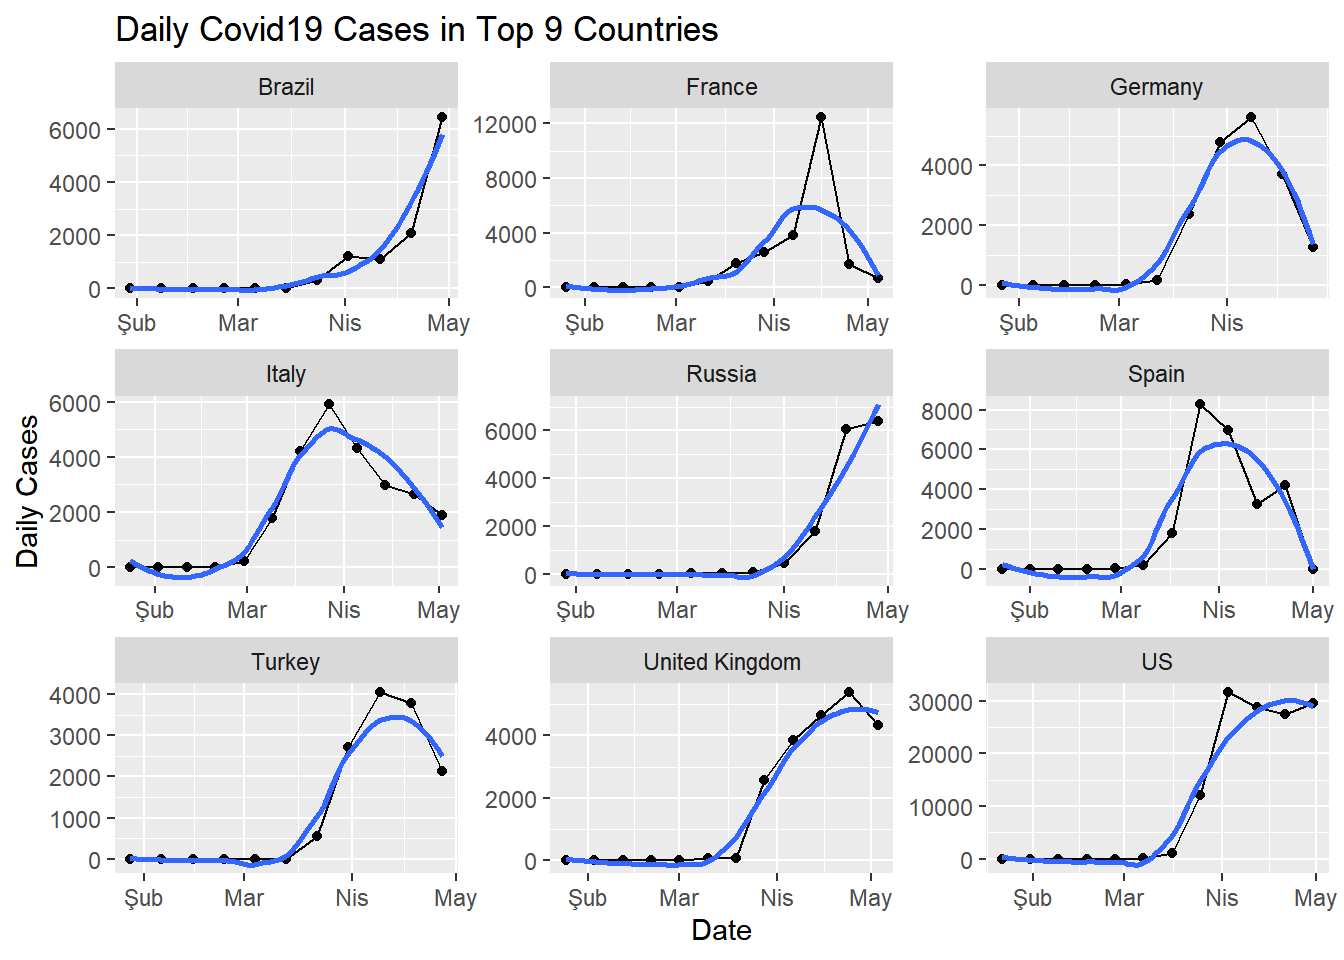
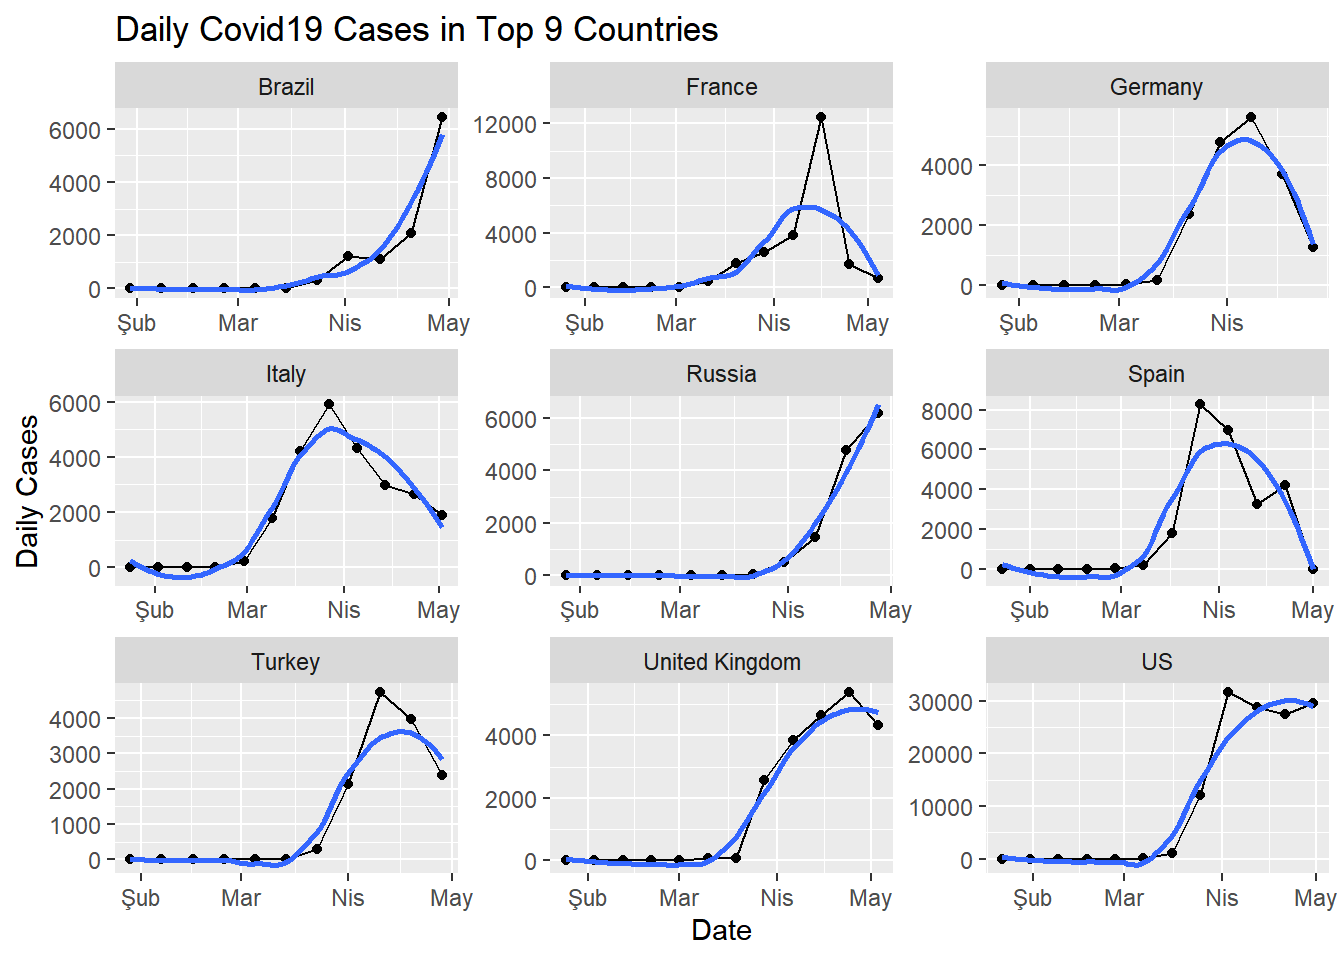
FP

diff --git a/2020/05/covid19-ggplot2/index.html b/2020/05/covid19-ggplot2/index.html
@@ -39,10 +39,10 @@ R has various ways to visualize data. In my opinion, #ggplot2 is the most elegan
 <meta property="og:locale" content="en-us">
 
   
-    <meta property="article:published_time" content="2020-05-02T00:00:00">
+    <meta property="article:published_time" content="2020-05-05T00:00:00">
   
   
-    <meta property="article:modified_time" content="2020-05-02T00:00:00">
+    <meta property="article:modified_time" content="2020-05-05T00:00:00">
   
   
   
@@ -275,9 +275,9 @@ if (!doNotTrack) {
   
   <div class="postShorten-meta post-meta">
     
-      <time itemprop="datePublished" datetime="2020-05-02T00:00:00Z">
+      <time itemprop="datePublished" datetime="2020-05-05T00:00:00Z">
         
-  May 2, 2020
+  May 5, 2020
 
       </time>
     
@@ -361,7 +361,7 @@ library(&quot;lubridate&quot;)</code></pre>
 ## #   X4.23.20 &lt;int&gt;, X4.24.20 &lt;int&gt;, X4.25.20 &lt;int&gt;, X4.26.20 &lt;int&gt;,
 ## #   X4.27.20 &lt;int&gt;, X4.28.20 &lt;int&gt;, X4.29.20 &lt;int&gt;, X4.30.20 &lt;int&gt;,
 ## #   X5.1.20 &lt;int&gt;, X5.2.20 &lt;int&gt;, X5.3.20 &lt;int&gt;, ...</code></pre>
-<p>Dataframe has 264 rows (One row for each country/state) and 99 columns (One column for each day, starting on January 22).</p>
+<p>Dataframe has 266 rows (One row for each country/state) and 106 columns (One column for each day, starting on January 22).</p>
 </div>
 <div id="cleaning-and-consolidating-data" class="section level1">
 <h1>2. Cleaning and Consolidating Data</h1>
@@ -430,7 +430,7 @@ head(turkey_time_series_tidy_confirmed_with_daily %&gt;%
 ## 6  Turkey 2020-04-29            117589        2936</code></pre>
 <p>Listing top 9 countries in terms of total cases (Will come in handy later)</p>
 <pre class="r"><code>top_nine_countries &lt;- time_series_tidy_confirmed_with_daily %&gt;%
-  filter(date == &#39;2020-05-02&#39;) %&gt;%
+  filter(date == max(date)) %&gt;%
   group_by(country) %&gt;%
   summarise(total_case = sum(accumulated_cases, na.rm = TRUE)) %&gt;%
   top_n(9, total_case) %&gt;%
@@ -446,8 +446,8 @@ top_nine_countries</code></pre>
 ## 4 United Kingdom
 ## 5 France        
 ## 6 Germany       
-## 7 Turkey        
-## 8 Russia        
+## 7 Russia        
+## 8 Turkey        
 ## 9 Brazil</code></pre>
 <p>#3. Plotting Some Graphs</p>
 <p>Let’s see how Turkey is doing, in terms of new cases.</p>
@@ -466,7 +466,7 @@ top_nine_countries</code></pre>
   geom_point() + # Added points
   geom_smooth(se = FALSE) + # Added regression line, locally fitted with loess method 
   labs(y = &quot;Daily Cases&quot;, x = &quot;Date&quot;, title = &quot;Daily Covid19 Cases in Top 9 Countries&quot;) + # Axis labels and main title added
-  facet_wrap(~ country, nrow = 3, scales = &quot;free&quot;) </code></pre>
+  facet_wrap(country~., nrow = 3, scales = &quot;free&quot;) </code></pre>
 <p><img src="https://auditanddata.com/post/2020-05-02-covid19-ggplot2_files/figure-html/unnamed-chunk-12-1.png" width="672" /></p>
 <p>And situation about accumulated cases is as following:</p>
 <p>Plotting accumulated case trend top 9 countries, black line and dots respresent actual case numbers and blue line is regression line:</p>
@@ -476,7 +476,7 @@ ggplot(data = filter(time_series_tidy_confirmed_with_daily, country == as_vector
   geom_point() + # Added points
   geom_smooth(se = FALSE) + # Added regression line, locally fitted with loess method 
   labs(y = &quot;Accumulated Cases&quot;, x = &quot;Date&quot;, title = &quot;Accumulated Covid19 Cases in Top 9 Countries&quot;) + # Axis labels and main title added
-  facet_grid(~ country, scales = &quot;free_y&quot;)</code></pre>
+  facet_grid(country~., scales = &quot;free_y&quot;)</code></pre>
 <p><img src="https://auditanddata.com/post/2020-05-02-covid19-ggplot2_files/figure-html/unnamed-chunk-13-1.png" width="672" /></p>
 </div>
 <div class="footnotes">

diff --git a/tags/index.html b/tags/index.html
@@ -374,7 +374,7 @@ if (!doNotTrack) {
                           Simple Visualizations About Covid19 Cases Using ggplot2
                         </a>
                         <span class="archive-post-date"> - 
-  May 2, 2020
+  May 5, 2020
 </span>
                       </li>
                     
@@ -403,7 +403,7 @@ if (!doNotTrack) {
                           Simple Visualizations About Covid19 Cases Using ggplot2
                         </a>
                         <span class="archive-post-date"> - 
-  May 2, 2020
+  May 5, 2020
 </span>
                       </li>
                     
@@ -492,7 +492,7 @@ if (!doNotTrack) {
                           Simple Visualizations About Covid19 Cases Using ggplot2
                         </a>
                         <span class="archive-post-date"> - 
-  May 2, 2020
+  May 5, 2020
 </span>
                       </li>
                     
@@ -532,7 +532,7 @@ if (!doNotTrack) {
                           Simple Visualizations About Covid19 Cases Using ggplot2
                         </a>
                         <span class="archive-post-date"> - 
-  May 2, 2020
+  May 5, 2020
 </span>
                       </li>
                     
@@ -572,7 +572,7 @@ if (!doNotTrack) {
                           Simple Visualizations About Covid19 Cases Using ggplot2
                         </a>
                         <span class="archive-post-date"> - 
-  May 2, 2020
+  May 5, 2020
 </span>
                       </li>
                     
@@ -792,7 +792,7 @@ if (!doNotTrack) {
                           Simple Visualizations About Covid19 Cases Using ggplot2
                         </a>
                         <span class="archive-post-date"> - 
-  May 2, 2020
+  May 5, 2020
 </span>
                       </li>
                     
@@ -812,7 +812,7 @@ if (!doNotTrack) {
                           Simple Visualizations About Covid19 Cases Using ggplot2
                         </a>
                         <span class="archive-post-date"> - 
-  May 2, 2020
+  May 5, 2020
 </span>
                       </li>
                     
@@ -932,7 +932,7 @@ if (!doNotTrack) {
                           Simple Visualizations About Covid19 Cases Using ggplot2
                         </a>
                         <span class="archive-post-date"> - 
-  May 2, 2020
+  May 5, 2020
 </span>
                       </li>
                     

diff --git a/archives/index.html b/archives/index.html
@@ -225,7 +225,7 @@ if (!doNotTrack) {
         <ul class="archive-posts archive-month" data-date="202005">
           <h5 class="archive-title" style="text-decoration: none;">May</h5>
           
-            <li class="archive-post archive-day" data-date="20200502">
+            <li class="archive-post archive-day" data-date="20200505">
               <a class="archive-post-title" href="https://auditanddata.com/2020/05/covid19-ggplot2/">Simple Visualizations About Covid19 Cases Using ggplot2</a>
             </li>
           

diff --git a/categories/index.html b/categories/index.html
@@ -749,7 +749,7 @@ if (!doNotTrack) {
                     
                       <li class="archive-post">
                         <a class="archive-post-title" href="https://auditanddata.com/2020/05/covid19-ggplot2/">Simple Visualizations About Covid19 Cases Using ggplot2</a><span class="archive-post-date"> - 
-  May 2, 2020
+  May 5, 2020
 </span>
                       </li>
                     

diff --git a/categories/r/index.html b/categories/r/index.html
@@ -239,9 +239,9 @@ if (!doNotTrack) {
       
   <div class="postShorten-meta post-meta">
     
-      <time itemprop="datePublished" datetime="2020-05-02T00:00:00Z">
+      <time itemprop="datePublished" datetime="2020-05-05T00:00:00Z">
         
-  May 2, 2020
+  May 5, 2020
 
       </time>
     

diff --git a/index.html b/index.html
@@ -236,9 +236,9 @@ if (!doNotTrack) {
       
   <div class="postShorten-meta post-meta">
     
-      <time itemprop="datePublished" datetime="2020-05-02T00:00:00Z">
+      <time itemprop="datePublished" datetime="2020-05-05T00:00:00Z">
         
-  May 2, 2020
+  May 5, 2020
 
       </time>
     

diff --git a/post/index.html b/post/index.html
@@ -237,9 +237,9 @@ if (!doNotTrack) {
       
   <div class="postShorten-meta post-meta">
     
-      <time itemprop="datePublished" datetime="2020-05-02T00:00:00Z">
+      <time itemprop="datePublished" datetime="2020-05-05T00:00:00Z">
         
-  May 2, 2020
+  May 5, 2020
 
       </time>
     

diff --git a/tags/covid19/index.html b/tags/covid19/index.html
@@ -239,9 +239,9 @@ if (!doNotTrack) {
       
   <div class="postShorten-meta post-meta">
     
-      <time itemprop="datePublished" datetime="2020-05-02T00:00:00Z">
+      <time itemprop="datePublished" datetime="2020-05-05T00:00:00Z">
         
-  May 2, 2020
+  May 5, 2020
 
       </time>
     

diff --git a/tags/datascience/index.html b/tags/datascience/index.html
@@ -239,9 +239,9 @@ if (!doNotTrack) {
       
   <div class="postShorten-meta post-meta">
     
-      <time itemprop="datePublished" datetime="2020-05-02T00:00:00Z">
+      <time itemprop="datePublished" datetime="2020-05-05T00:00:00Z">
         
-  May 2, 2020
+  May 5, 2020
 
       </time>
     

diff --git a/tags/ggplot2/index.html b/tags/ggplot2/index.html
@@ -239,9 +239,9 @@ if (!doNotTrack) {
       
   <div class="postShorten-meta post-meta">
     
-      <time itemprop="datePublished" datetime="2020-05-02T00:00:00Z">
+      <time itemprop="datePublished" datetime="2020-05-05T00:00:00Z">
         
-  May 2, 2020
+  May 5, 2020
 
       </time>
     

diff --git a/tags/markdown/index.html b/tags/markdown/index.html
@@ -239,9 +239,9 @@ if (!doNotTrack) {
       
   <div class="postShorten-meta post-meta">
     
-      <time itemprop="datePublished" datetime="2020-05-02T00:00:00Z">
+      <time itemprop="datePublished" datetime="2020-05-05T00:00:00Z">
         
-  May 2, 2020
+  May 5, 2020
 
       </time>
     

diff --git a/tags/r-markdown/index.html b/tags/r-markdown/index.html
@@ -239,9 +239,9 @@ if (!doNotTrack) {
       
   <div class="postShorten-meta post-meta">
     
-      <time itemprop="datePublished" datetime="2020-05-02T00:00:00Z">
+      <time itemprop="datePublished" datetime="2020-05-05T00:00:00Z">
         
-  May 2, 2020
+  May 5, 2020
 
       </time>
     
